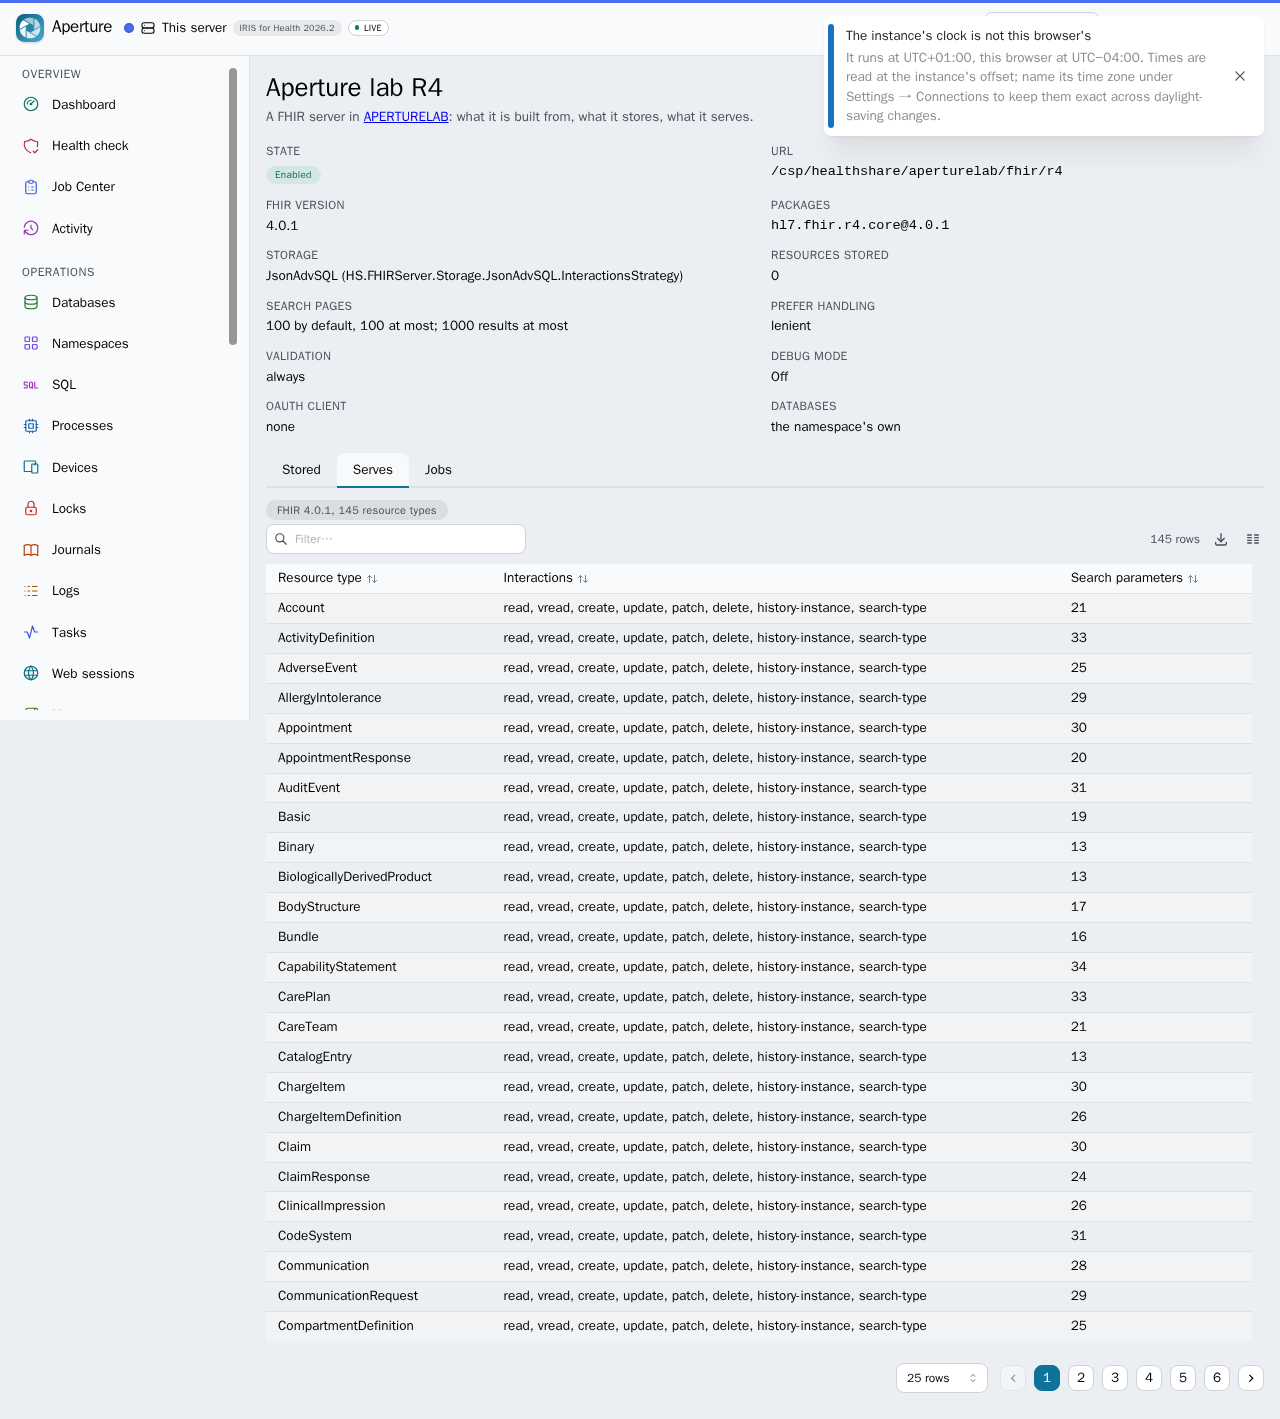
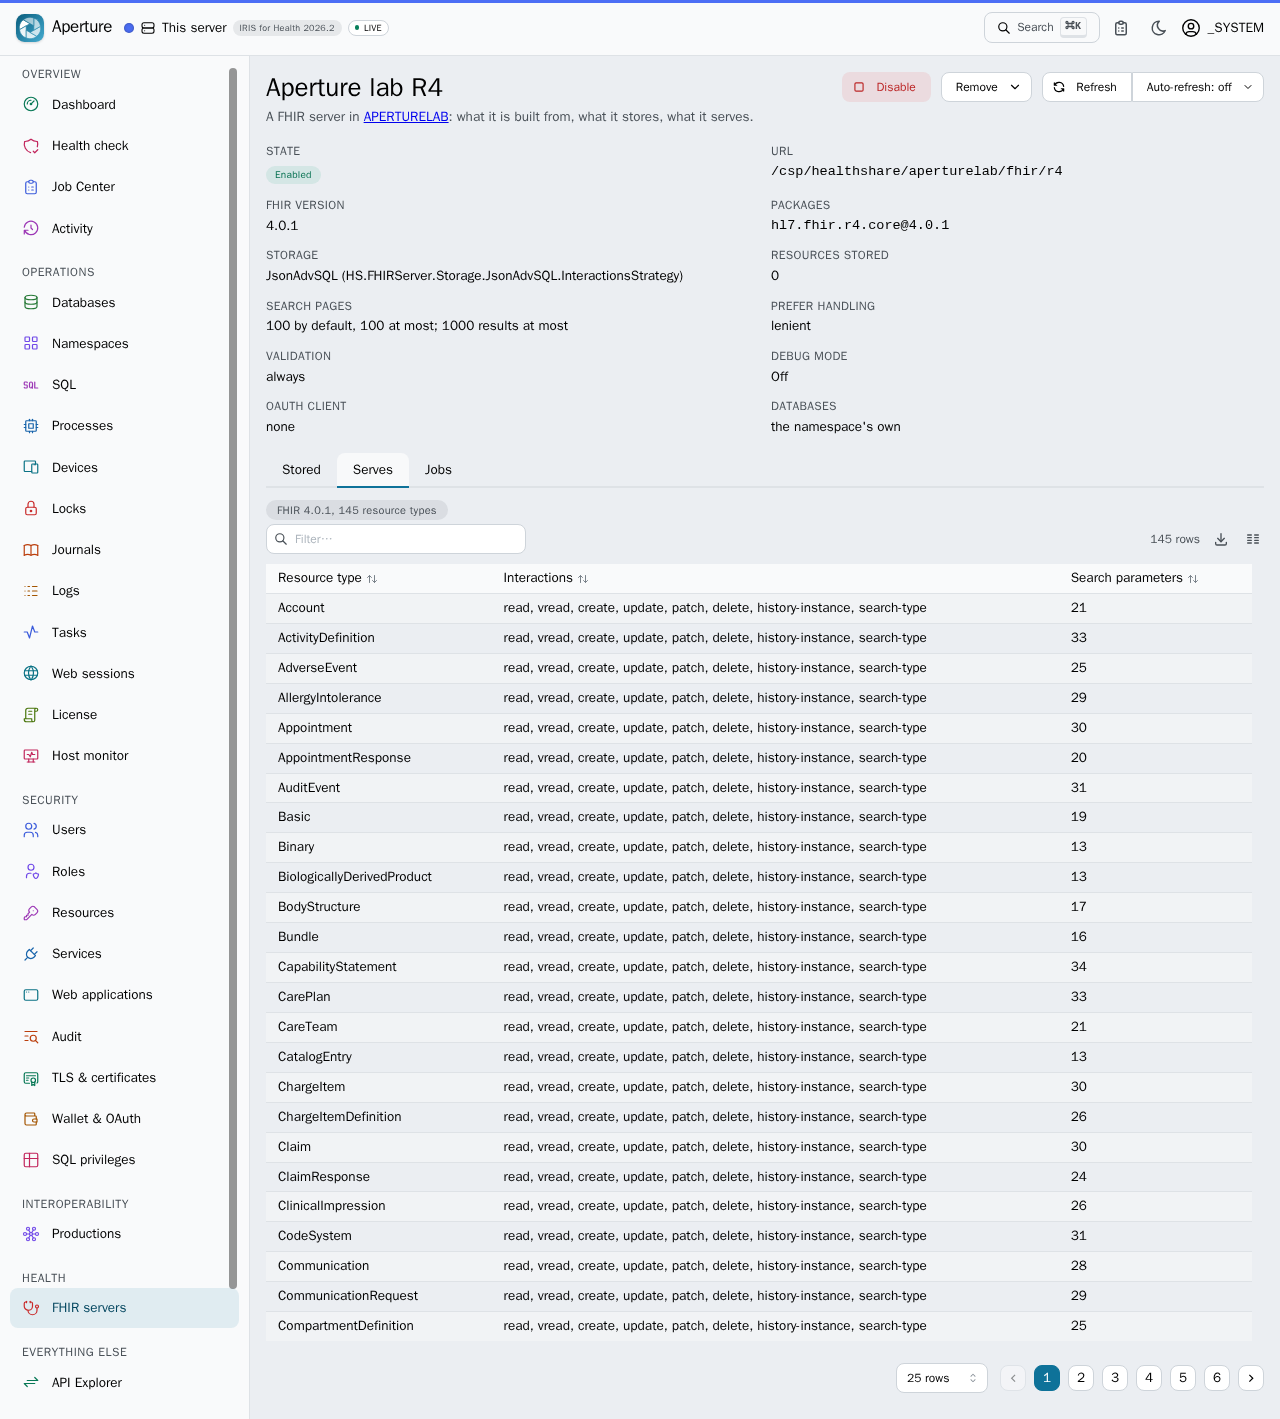
Evidence of 19 October taken again without the clock notice, the @mutate run dated to 0a41b77, and the 18 October event log screenshot taken mid-slide dropped

diff --git a/docs/verification/2026-10-19-irishealth-2026.2/README.md b/docs/verification/2026-10-19-irishealth-2026.2/README.md
@@ -3,11 +3,12 @@
 The same instance as on [18 October](../2026-10-18-irishealth-2026.2/) (IRIS for Health Community 2026.2, Build 221U,
 durable %SYS), with the `APERTURELAB` namespace of [`scripts/live/lab.mjs`](../../../scripts/live/lab.mjs) and its FHIR
 server "Aperture lab R4" (`/csp/healthshare/aperturelab/fhir/r4`). The screens of 1.4.0 to 1.7.0 against it, from
-Aperture 1.7.0 (`0057c91`, "Release 1.7.0") served by the Vite dev server of `playwright.live.config.ts`, signed in as
-the administrator account (`_SYSTEM`); the browser ran in America/New_York, the instance at UTC+01:00, so every screen
-carries the notice that the two clocks differ.
+Aperture 1.7.0 (`0057c91`, "Release 1.7.0"; the commits after it change only the live tests and this folder) served by
+the Vite dev server of `playwright.live.config.ts`, signed in as the administrator account (`_SYSTEM`). The browser ran
+in America/New_York and the instance at UTC+01:00, so each screen showed the notice that the two clocks differ; the
+tests close it before each screenshot, as it covers the header and the signed-in account.
 
-## Read-only run, 13:55 (House time)
+## Read-only run, 14:12 (House time)
 
 ```
 IRIS_URL=… APERTURE_LIVE_ENV=… CI=true LIVE_EVIDENCE=docs/verification/2026-10-19-irishealth-2026.2/ui \
@@ -15,14 +16,15 @@ IRIS_URL=… APERTURE_LIVE_ENV=… CI=true LIVE_EVIDENCE=docs/verification/2026-
 ```
 
 Without `LIVE_MUTATE`, so the two @mutate tests were skipped. 2 passed: `fhir.spec.ts` "the FHIR servers and one of
-them" (25.7 s) and `sql.spec.ts` "a query with its column types, a plan, and the catalogue" (2.9 s). Nothing was written
+them" (4.2 s) and `sql.spec.ts` "a query with its column types, a plan, and the catalogue" (4.3 s). Each screenshot is
+the whole page, with the window made as tall as the page for it. Nothing was written
 to the instance: the SQL test runs a `SELECT`, an `EXPLAIN` and a `SELECT` of a table that does not exist, and reads the
 statement index; the FHIR test reads. The audit notice was only displayed, and none of its buttons was clicked.
 
 | File | What it shows |
 | --- | --- |
 | `ui/sql-audit-notice.png` | the SQL screen on `USER` as it opens: the orange notice "IRIS SQL audit is disabled", saying that statements run there are not written to the IRIS audit log under any user, that DynamicStatementDML and DynamicStatementDDL are off, a link to Security > Audit, and its "Audit SQL changes…" button (not clicked) |
-| `ui/sql-query.png` | `SELECT TOP 5 TABLE_SCHEMA, TABLE_NAME FROM INFORMATION_SCHEMA.TABLES`: "5 rows in 17 ms", each column header with its SQL type (`VARCHAR(128)`) |
+| `ui/sql-query.png` | `SELECT TOP 5 TABLE_SCHEMA, TABLE_NAME FROM INFORMATION_SCHEMA.TABLES`: "5 rows in 35 ms", each column header with its SQL type (`VARCHAR(128)`) |
 | `ui/sql-plan.png` | Explain on the same statement: IRIS's plan in its 2026 text form (the warning that the table is not tuned, the cost, the modules and the map it reads) |
 | `ui/sql-error.png` | `SELECT nothing FROM Nowhere.AtAll`: "The statement failed", `SQLCODE -30: Table 'NOWHERE.ATALL' not found` |
 | `ui/sql-statement-index.png` | the Statement index tab: 81 statements of `USER` with their `StatCount`, `StatTotal`, `StatAverage` and `StatRowCount` |
@@ -37,11 +39,13 @@ they predate the fixes of 19 October.
 
 ## Changes, run separately on 19 October
 
-The @mutate tests, with `LIVE_MUTATE=1`, on the same instance and build: 6 passed. A host of the test production was
-stopped and started again; a table was created, written, read back and dropped in `APERTURELAB`
-(`ApertureProbe.Note`); and the lab FHIR server was disabled and enabled again.
+Earlier that day (before 11:21), the @mutate tests of `productions.spec.ts`, `sql.spec.ts` and `fhir.spec.ts`, with
+`LIVE_MUTATE=1` and the test production running, on the same instance but from `0a41b77`, before 1.7.0 was built: 6
+passed. A host of the test production was stopped and started again, read back from IRIS; a table was created,
+written, read back and dropped in `APERTURELAB` (`ApertureProbe.Note`); and the lab FHIR server was disabled and
+enabled again. The test production was stopped again afterwards.
 
 The audit check: with DynamicStatementDML and DynamicStatementDDL switched on for that run, and off again afterwards,
 IRIS wrote 3 records under `_SYSTEM` for the SQL test: `CREATE TABLE`, `INSERT` and `DROP TABLE` of
-`ApertureProbe.Note`. The `SELECT` was not recorded, as DynamicStatementQuery stayed off. The notice above shows the
-settings as they were left.
+`ApertureProbe.Note`. The `SELECT` was not recorded, as DynamicStatementQuery stayed off. The records reached
+`%SYS.Audit` a few seconds after the statements. The notice above shows the settings as they were left.

diff --git a/docs/verification/2026-10-18-irishealth-2026.2/README.md b/docs/verification/2026-10-18-irishealth-2026.2/README.md
@@ -8,7 +8,7 @@ bursts queue, and `Lab.Spare` is disabled.
 | File | What it shows |
 | --- | --- |
 | `p-interop.json` | [`scripts/live/interop.mjs`](../../../scripts/live/interop.mjs), read-only: `/api/interop-editors` (`%Api.InteropEditors`, `apiVersion` 7) answers 200 to the token of `/api/admin/login` (its `app` claim is `/api/admin/`; both applications have JWT on and the by-ID group `%ISCMgtPortal`) and to Basic; the privileges it reports; the productions and status of every namespace; the test production's definition, connections, categories, each host's event log, messages, queue and jobs, a host by name (404) and by item id (200), its settings, and a message search |
-| `ui/productions.png`, `ui/production.png`, `ui/host-messages.png`, `ui/host-event-log.png` | the screens against the running test production at 00:53 (House time), from the working build before the productions commits of 1.4.0 and before the fixes of 19 October (the busy-host badge, the start guard, the wording of errors and controls): the Productions list (four productions in `APERTURELAB`, `MXNAMESPACE` and `MXSAMPLE`, the lab one running with 1 error, 4 OK, 1 disabled), `Aperture.Lab.Production` with its six hosts and `Lab.Flaky`'s 16 errors in 24 hours, and `Lab.Flaky`'s drawer on its Messages tab (Error and Completed by turns) and on its Event log tab (`ERROR #5001` every minute; this one was taken while the drawer was still sliding in, so the page shows through it). `e2e/live/productions.spec.ts` writes them with `LIVE_EVIDENCE` set, and needs the test production running. |
+| `ui/productions.png`, `ui/production.png`, `ui/host-messages.png` | the screens against the running test production at 00:53 (House time), from the working build before the productions commits of 1.4.0 and before the fixes of 19 October (the busy-host badge, the start guard, the wording of errors and controls): the Productions list (four productions in `APERTURELAB`, `MXNAMESPACE` and `MXSAMPLE`, the lab one running with 1 error, 4 OK, 1 disabled), `Aperture.Lab.Production` with its six hosts and `Lab.Flaky`'s 16 errors in 24 hours, and `Lab.Flaky`'s drawer on its Messages tab (Error and Completed by turns). Its Event log tab was taken too, but while the drawer was still sliding in, so it is not kept; the tests now wait for such transitions to end. `e2e/live/productions.spec.ts` writes them, and the Event log tab, with `LIVE_EVIDENCE` set, and needs the test production running. The SQL and FHIR servers screens on the same instance are in [`../2026-10-19-irishealth-2026.2/`](../2026-10-19-irishealth-2026.2/). |
 
 What the screens rely on, as recorded here and while building them:
 
